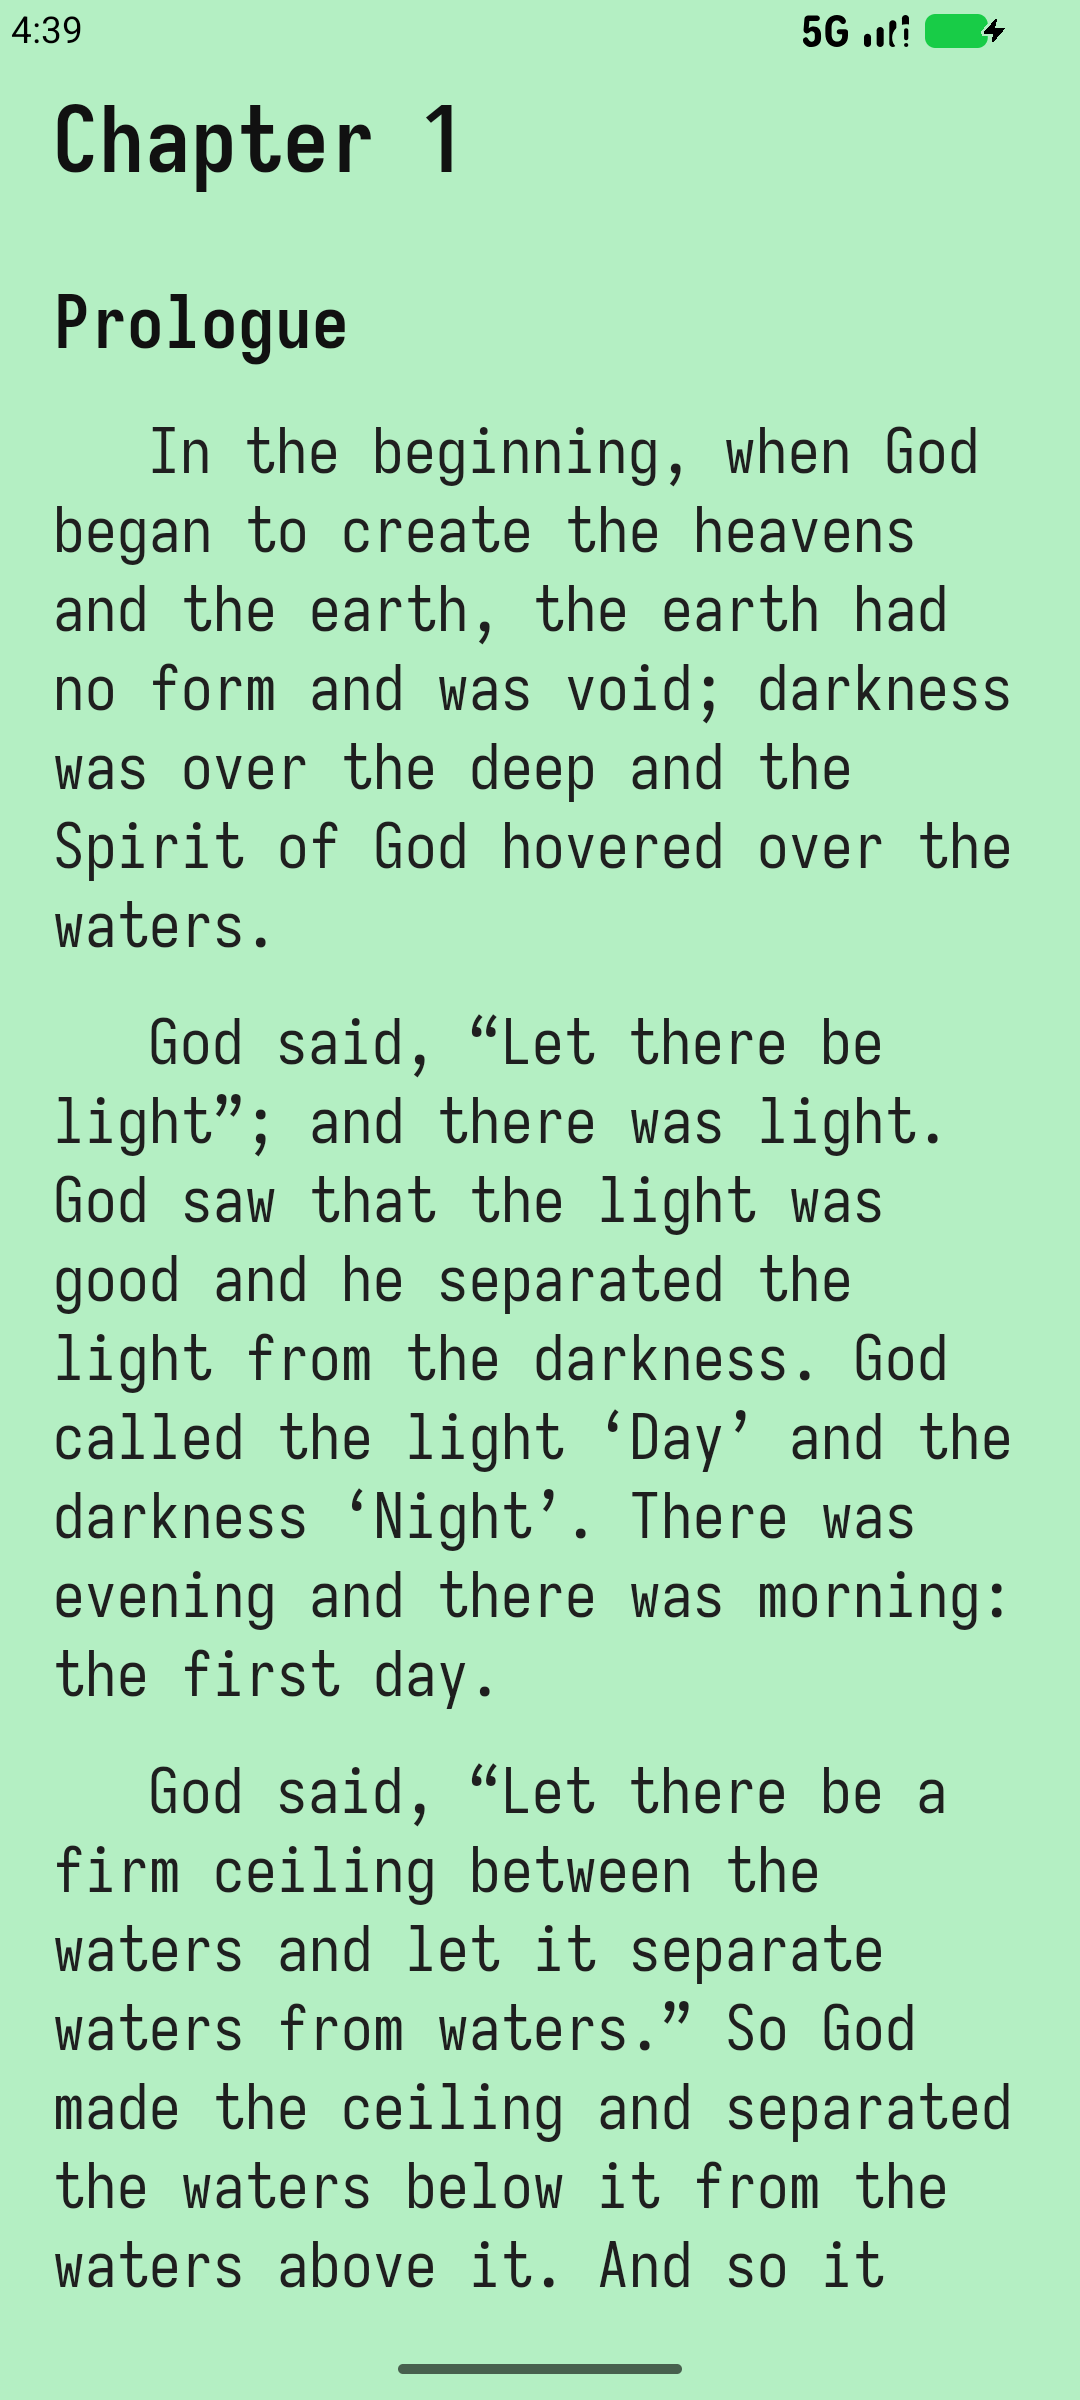
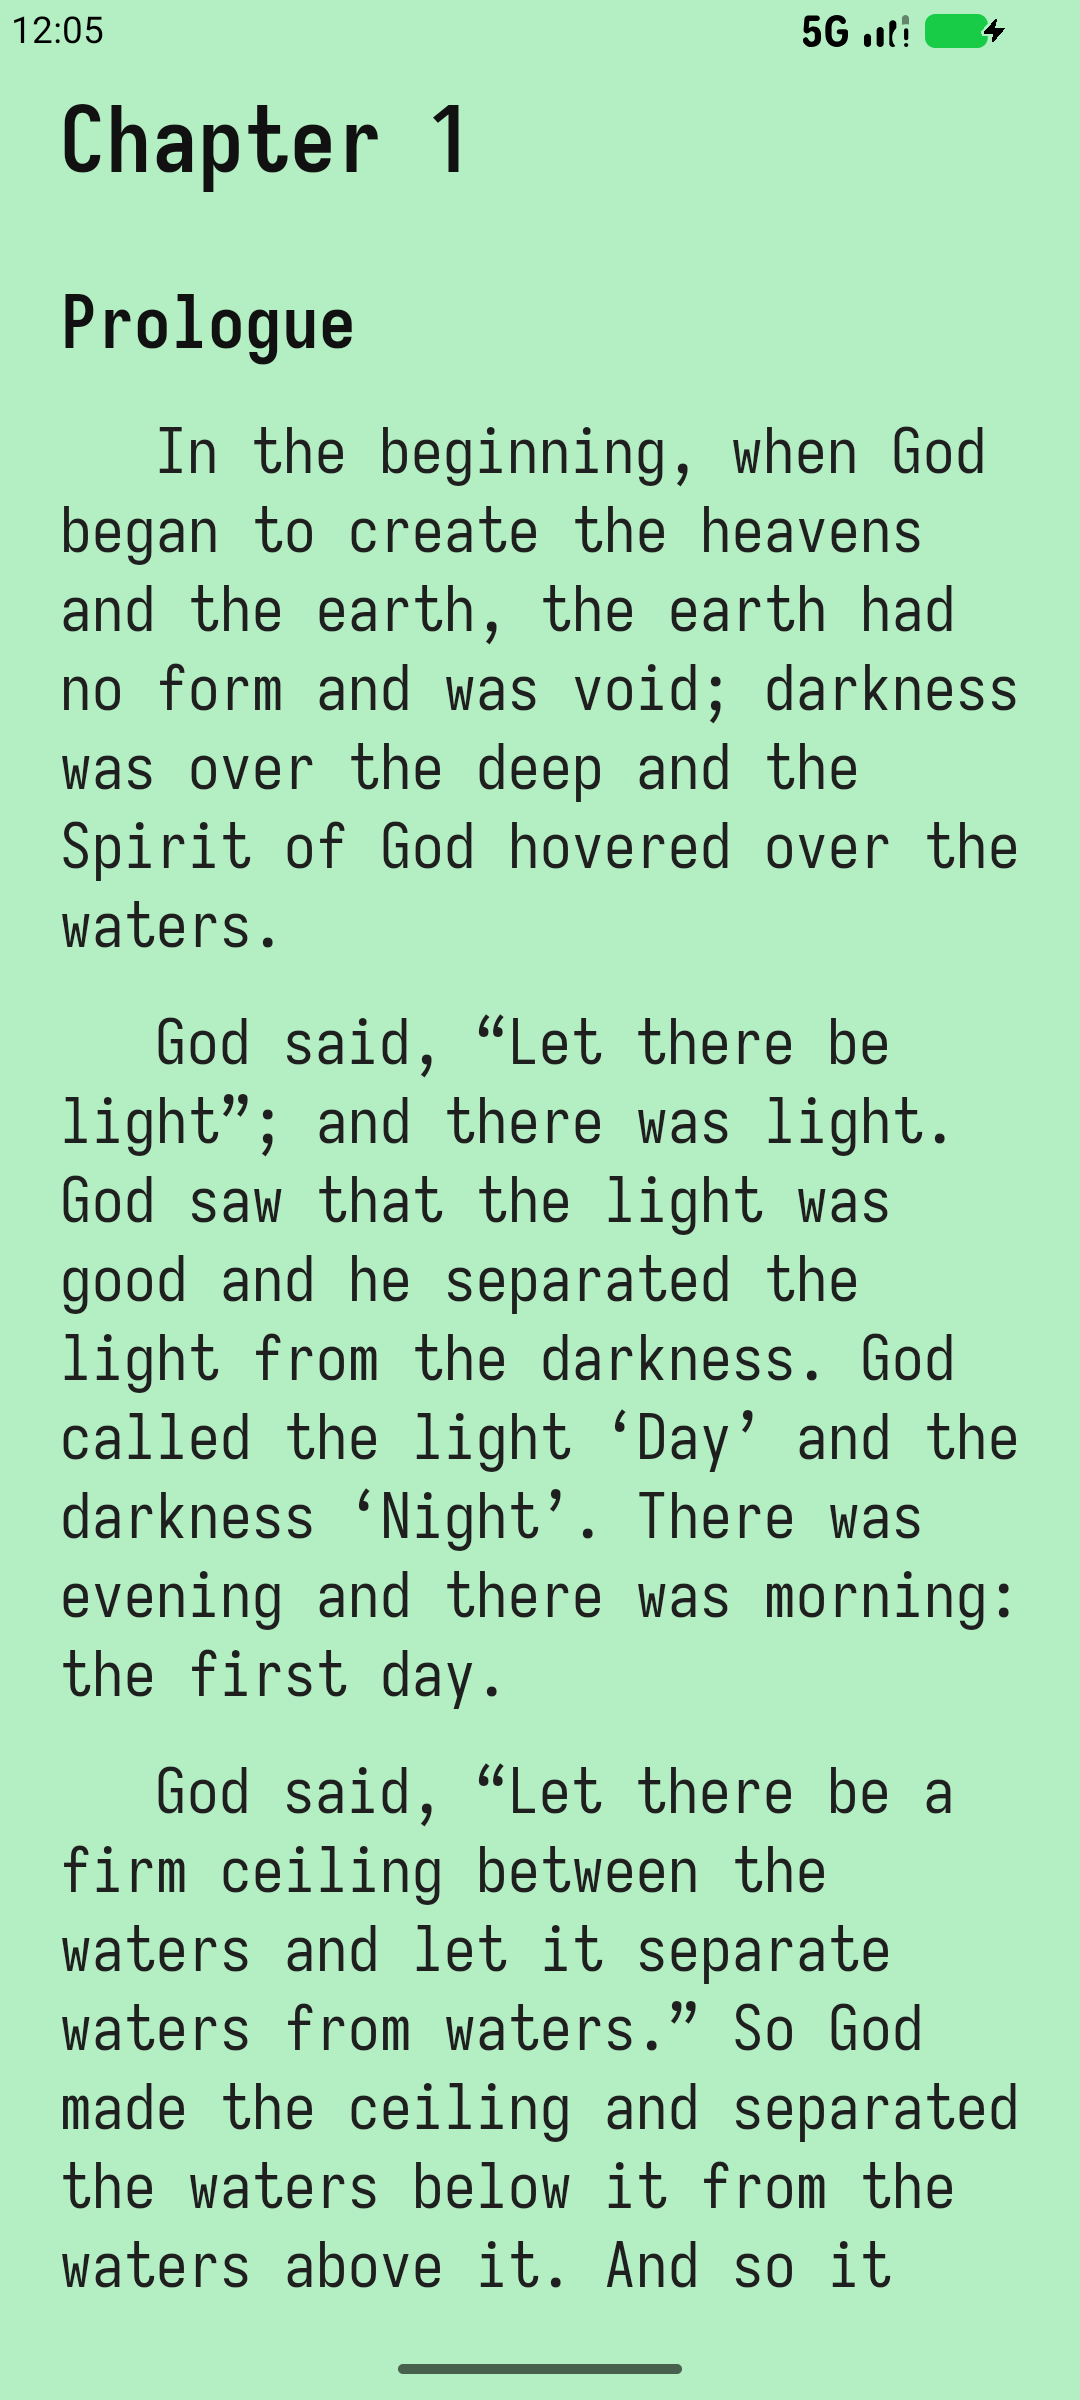
发布 1.8.3：翻页页边完整跟随，按最后方向翻页并修正段首缩进
- 反向滑动只按手指最后横向移动方向决定回弹或翻页，移除速度/回退距离阈值
- 从屏幕中央拖出再拖回时不再误开菜单
- 等宽字符网格按实际字符宽度居中，标题、小标题、正文共用同一排版左边界
- 中文段首缩进精确为 2 个字符宽，英文保持 1.5em
- 翻页层改为整页尺寸，移动页连同页边距一起移动，右侧页边不再被裁切
- 更新中英文 README 排版说明及 8 张截图
- 版本号 1.8.3 (12)

diff --git a/app/src/main/java/com/chenyehui/bible/ui/ReaderScreen.kt b/app/src/main/java/com/chenyehui/bible/ui/ReaderScreen.kt
@@ -267,11 +267,19 @@ fun ReaderScreen(
             modifier = Modifier
                 .fillMaxSize()
                 .systemBarsPadding()
-                .displayCutoutPadding()
-                .padding(horizontal = 20.dp, vertical = 8.dp),
+                .displayCutoutPadding(),
         ) {
-            val widthPx = constraints.maxWidth
-            val heightPx = constraints.maxHeight
+            val pageHorizontalPadding = 20.dp
+            val pageVerticalPadding = 8.dp
+            val density = LocalDensity.current
+            val widthPx = (
+                constraints.maxWidth -
+                    with(density) { pageHorizontalPadding.toPx() } * 2f
+                ).toInt()
+            val heightPx = (
+                constraints.maxHeight -
+                    with(density) { pageVerticalPadding.toPx() } * 2f
+                ).toInt()
 
             when {
                 loadError != null -> ReaderMessage(
@@ -299,7 +307,6 @@ fun ReaderScreen(
 
                 else -> {
                     val textMeasurer = rememberTextMeasurer()
-                    val density = LocalDensity.current
                     val style = remember(fontSize, letterSpacing, lineSpacingExtra, palette) {
                         TextStyle(
                             fontFamily = MonoFamily,
@@ -669,6 +676,9 @@ fun ReaderScreen(
                                         val centerTapSlop = 8f
                                         var totalX = 0f
                                         var totalY = 0f
+                                        var previousX = down.position.x
+                                        var lastHorizontalDelta = 0f
+                                        var maxAbsTotalX = 0f
                                         var dragStarted = false
                                         var dragDirection: TurnDirection? = null
                                         var dragTarget: TurnTarget? = null
@@ -679,9 +689,16 @@ fun ReaderScreen(
                                             val event = awaitPointerEvent()
                                             val change = event.changes
                                                 .firstOrNull { it.id == down.id } ?: break
-                                            if (!change.pressed) break
+                                            val isUp = !change.pressed
                                             totalX = change.position.x - down.position.x
                                             totalY = change.position.y - down.position.y
+                                            val deltaX = change.position.x - previousX
+                                            previousX = change.position.x
+                                            if (!isUp && deltaX != 0f) {
+                                                lastHorizontalDelta = deltaX
+                                            }
+                                            maxAbsTotalX = maxOf(maxAbsTotalX, abs(totalX))
+                                            if (isUp) break
 
                                             if (
                                                 !dragStarted &&
@@ -732,6 +749,12 @@ fun ReaderScreen(
                                             }
                                         }
 
+                                        val lastMovesOpposite = when (dragDirection) {
+                                            TurnDirection.Forward -> lastHorizontalDelta > 0f
+                                            TurnDirection.Backward -> lastHorizontalDelta < 0f
+                                            null -> false
+                                        }
+
                                         if (!dragStarted) {
                                             if (
                                                 abs(totalX) <= viewConfiguration.touchSlop &&
@@ -743,7 +766,7 @@ fun ReaderScreen(
                                             }
                                         } else if (
                                             downInCenter &&
-                                            abs(totalX) < centerTapSlop &&
+                                            maxAbsTotalX < centerTapSlop &&
                                             abs(totalY) < centerTapSlop
                                         ) {
                                             // A centre tap with a little finger jitter is
@@ -751,20 +774,37 @@ fun ReaderScreen(
                                             finishVisualNow()
                                             sheetTab = ReaderMenuTab.Directory
                                         } else if (dragTarget != null && dragVisual != null) {
-                                            commitLogical(dragTarget)
-                                            animateVisualTo(
-                                                visual = dragVisual,
-                                                target = 1f,
-                                                duration = turnDurationMs(1f - progress),
-                                            )
-                                        } else if (boundarySwipe && dragDirection != null) {
-                                            if (dragDirection == TurnDirection.Forward) {
-                                                nextBookMeta?.let {
-                                                    switchBook(it, lastChapter = false)
+                                            if (lastMovesOpposite) {
+                                                // The finger's last movement is back
+                                                // towards where it started: follow it
+                                                // home instead of committing the turn.
+                                                if (progress > 0f) {
+                                                    animateVisualTo(
+                                                        visual = dragVisual,
+                                                        target = 0f,
+                                                        duration = turnDurationMs(progress),
+                                                    )
+                                                } else {
+                                                    finishVisualNow()
                                                 }
                                             } else {
-                                                previousBookMeta?.let {
-                                                    switchBook(it, lastChapter = true)
+                                                commitLogical(dragTarget)
+                                                animateVisualTo(
+                                                    visual = dragVisual,
+                                                    target = 1f,
+                                                    duration = turnDurationMs(1f - progress),
+                                                )
+                                            }
+                                        } else if (boundarySwipe && dragDirection != null) {
+                                            if (!lastMovesOpposite) {
+                                                if (dragDirection == TurnDirection.Forward) {
+                                                    nextBookMeta?.let {
+                                                        switchBook(it, lastChapter = false)
+                                                    }
+                                                } else {
+                                                    previousBookMeta?.let {
+                                                        switchBook(it, lastChapter = true)
+                                                    }
                                                 }
                                             }
                                         }
@@ -775,13 +815,23 @@ fun ReaderScreen(
                                 PageCanvas(
                                     layout = currentLayout,
                                     pageIndex = pageIndex,
-                                    modifier = Modifier.fillMaxSize(),
+                                    modifier = Modifier
+                                        .fillMaxSize()
+                                        .padding(
+                                            horizontal = pageHorizontalPadding,
+                                            vertical = pageVerticalPadding,
+                                        ),
                                 )
                             } else {
                                 PageCanvas(
                                     layout = visual.baseLayout,
                                     pageIndex = visual.basePage,
-                                    modifier = Modifier.fillMaxSize(),
+                                    modifier = Modifier
+                                        .fillMaxSize()
+                                        .padding(
+                                            horizontal = pageHorizontalPadding,
+                                            vertical = pageVerticalPadding,
+                                        ),
                                 )
                                 Box(
                                     modifier = Modifier
@@ -803,7 +853,12 @@ fun ReaderScreen(
                                     PageCanvas(
                                         layout = visual.movingLayout,
                                         pageIndex = visual.movingPage,
-                                        modifier = Modifier.fillMaxSize(),
+                                        modifier = Modifier
+                                            .fillMaxSize()
+                                            .padding(
+                                                horizontal = pageHorizontalPadding,
+                                                vertical = pageVerticalPadding,
+                                            ),
                                     )
                                 }
                             }

diff --git a/app/src/main/java/com/chenyehui/bible/ui/PageRender.kt b/app/src/main/java/com/chenyehui/bible/ui/PageRender.kt
@@ -7,6 +7,7 @@ import androidx.compose.ui.Modifier
 import androidx.compose.ui.graphics.Color
 import androidx.compose.ui.graphics.drawscope.clipRect
 import androidx.compose.ui.graphics.drawscope.translate
+import androidx.compose.ui.text.AnnotatedString
 import androidx.compose.ui.text.TextLayoutResult
 import androidx.compose.ui.text.TextMeasurer
 import androidx.compose.ui.text.TextStyle
@@ -14,6 +15,7 @@ import androidx.compose.ui.text.drawText
 import androidx.compose.ui.unit.Constraints
 import androidx.compose.ui.unit.Density
 import com.chenyehui.bible.data.Chapter
+import kotlin.math.roundToInt
 
 /** A measured paragraph/heading block. */
 data class ChapterBlock(
@@ -28,6 +30,8 @@ data class ChapterLayout(
     val title: String,
     val blocks: List<ChapterBlock>,
     val pages: List<PageSlice>,
+    /** Left inset that centers the monospaced character grid in the page. */
+    val horizontalOffsetPx: Float,
 )
 
 fun buildChapterLayout(
@@ -46,6 +50,8 @@ fun buildChapterLayout(
     widthPx: Int,
     heightPx: Int,
 ): ChapterLayout {
+    val safeWidth = widthPx.coerceAtLeast(1)
+    val cellWidth = measureCellWidth(language, style, textMeasurer)
     val specs = buildChapterBlockSpecs(
         chapter = chapter,
         chapterTitle = title,
@@ -58,15 +64,24 @@ fun buildChapterLayout(
         mutedColor = mutedColor,
         baseStyle = style,
         density = density,
+        characterCellWidthPx = cellWidth,
     )
 
     var offset = 0
+    val columns = if (cellWidth > 0f) (safeWidth / cellWidth).toInt() else 0
+    val gridWidth = if (columns > 0) {
+        (columns * cellWidth).roundToInt().coerceIn(1, safeWidth)
+    } else {
+        safeWidth
+    }
+    val horizontalOffset = (safeWidth - gridWidth) / 2f
+
     val blocks = specs.map { spec ->
         val layout = textMeasurer.measure(
             text = spec.text,
             style = spec.style,
             softWrap = true,
-            constraints = Constraints(maxWidth = widthPx.coerceAtLeast(1)),
+            constraints = Constraints(maxWidth = gridWidth),
         )
         val block = ChapterBlock(
             kind = spec.kind,
@@ -83,7 +98,29 @@ fun buildChapterLayout(
         title = title,
         blocks = blocks,
         pages = paginate(blocks, heightPx),
+        horizontalOffsetPx = horizontalOffset,
     )
+}
+
+/**
+ * Advance of one body character in the monospaced grid. The grid is laid out
+ * slightly narrower than the available width so it can be centered with equal
+ * left/right space.
+ */
+private fun measureCellWidth(
+    language: String,
+    style: TextStyle,
+    textMeasurer: TextMeasurer,
+): Float {
+    val sample = if (language == "zh") "中" else "0"
+    val count = 64
+    val layout = textMeasurer.measure(
+        text = AnnotatedString(sample.repeat(count)),
+        style = style,
+        softWrap = false,
+        constraints = Constraints(),
+    )
+    return layout.size.width.toFloat() / count
 }
 
 @Composable
@@ -107,7 +144,10 @@ fun PageCanvas(layout: ChapterLayout, pageIndex: Int, modifier: Modifier = Modif
                 top = chunk.top,
                 bottom = chunk.top + height,
             ) {
-                translate(top = chunk.top - layoutTop) {
+                translate(
+                    left = layout.horizontalOffsetPx,
+                    top = chunk.top - layoutTop,
+                ) {
                     drawText(textLayout)
                 }
             }

diff --git a/app/src/main/java/com/chenyehui/bible/ui/Pagination.kt b/app/src/main/java/com/chenyehui/bible/ui/Pagination.kt
@@ -62,11 +62,20 @@ fun buildChapterBlockSpecs(
     mutedColor: Color,
     baseStyle: TextStyle,
     density: Density,
+    characterCellWidthPx: Float,
 ): List<ChapterBlockSpec> {
     val factor = AppPrefs.BASE_LINE_HEIGHT + lineSpacingExtra
     val bodyLineHeight = baseFontSize * factor
     val bodyLineHeightPx = with(density) { bodyLineHeight.sp.toPx() }
     val paragraphGapPx = with(density) { (paragraphSpacing * baseFontSize).sp.toPx() }
+    val cellWidthPx = characterCellWidthPx.takeIf { it > 0f }
+        ?: (baseFontSize * density.density * density.fontScale)
+    val firstLineIndentSp = if (language == "zh") {
+        // Exactly two monospaced character cells, not two font-size ems.
+        cellWidthPx * 2f / (density.density * density.fontScale)
+    } else {
+        baseFontSize * 1.5f
+    }
 
     val raws = ArrayList<RawChunk>()
     if (chapterTitle.isNotBlank()) {
@@ -140,7 +149,7 @@ fun buildChapterBlockSpecs(
                 verses = raw.verses,
                 language = language,
                 textColor = textColor,
-                indentSp = baseFontSize * if (language == "en") 1.5f else 2f,
+                indentSp = firstLineIndentSp,
             ) to baseStyle.copy(color = textColor)
         }
         ChapterBlockSpec(

diff --git a/README.md b/README.md
@@ -21,7 +21,7 @@ A quiet, offline Bible reader for Android. Open the app and you are already in t
 - **Screen stays awake while reading** — the display does not time out while the reading view is open; opening the menu, settings, or the book chooser restores the system's normal screen timeout.
 - **Volume-key paging** — volume up goes to the previous page, volume down to the next.
 - **One menu, three taps away** — tap the center of the screen for a full-screen menu with the chapter grid, book chooser, and settings.
-- **Readable typography** — bundled Sarasa Mono SC (regular and bold), adjustable font size, letter spacing, line spacing, and paragraph spacing. Chinese paragraphs use a two-character first-line indent; English paragraphs use a 1.5 em indent.
+- **Readable typography** — bundled Sarasa Mono SC (regular and bold), adjustable font size, letter spacing, line spacing, and paragraph spacing. Chinese paragraphs use a two-character first-line indent; English paragraphs use a 1.5 em indent. The monospaced character column is centered with equal left and right margins.
 - **Bilingual interface** — follow the system language or choose Chinese/English manually. The interface, page labels, counts, and settings are localized; Scripture text and book names follow the selected translation.
 - **Light, dark, or system theme** — the reading surface and menus support all three. The app's chrome is deliberately monochrome.
 - **Your place is remembered** — reading position is saved by character offset and restored across restarts.

diff --git a/README_zh-CN.md b/README_zh-CN.md
@@ -21,7 +21,7 @@
 - **阅读时保持屏幕常亮**：正文页不会自动息屏；打开目录、设置或切换书卷后，由系统按正常时间自动息屏。
 - **音量键翻页**：音量上＝上一页，音量下＝下一页。
 - **全屏菜单**：点屏幕正中央打开，包含章节网格、书卷切换和设置。
-- **为阅读调整的排版**：内置 Sarasa Mono SC 等宽字体（Regular + Bold），可调字号、字距、行距、段距。中文段首缩进 2 个字符，英文段首缩进 1.5 em。
+- **为阅读调整的排版**：内置 Sarasa Mono SC 等宽字体（Regular + Bold），可调字号、字距、行距、段距。中文段首缩进 2 个字符，英文段首缩进 1.5 em。等宽字符区域在页面中居中，左右留白一致。
 - **中英双语界面**：可跟随系统，也可手动选择中文或 English。菜单、页码、计数、设置和提示都会切换；经文、圣经书名和章名保持当前译本的语言。
 - **亮色 / 暗色 / 跟随系统**：阅读页与菜单都支持；界面主体保持黑白灰。
 - **记住阅读位置**：按字符位置保存，重启后回到同一页。
